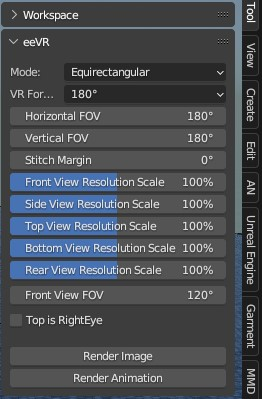
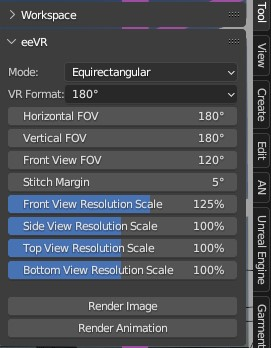
update docu improve ui cosme

diff --git a/__init__.py b/__init__.py
@@ -5,7 +5,7 @@
 import os
 import time
 from datetime import datetime
-from math import radians
+from math import radians, degrees
 
 if "bpy" in locals():
     import importlib
@@ -174,22 +174,23 @@ class ToolPanel(Panel):
         else:
             col.prop(props, 'HFOV360')
         col.prop(props, 'VFOV')
+        if props.get_hfov() <= radians(270):
+            col.prop(props, 'frontFOV')
+            max_fov = props.get_max_fov()
+            if props.frontFOV > max_fov:
+                col.label(icon='ERROR', text=f"clips to {degrees(max_fov):3.0f}°")
         col.prop(props, 'stitchMargin')
         col.prop(props, 'frontViewResolution')
         col.prop(props, 'sideViewResolution')
         col.prop(props, 'topViewResolution')
         col.prop(props, 'bottomViewResolution')
-        col.prop(props, 'rearViewResolution')
-        if props.fovModeEnum == '180':
-            col = layout.column()
-            col.prop(props, 'frontFOV')
-        if context.scene.render.use_multiview and props.GetHFOV() > radians(180):
-            col = layout.column()
+        if props.get_hfov() > radians(270):
+            col.prop(props, 'rearViewResolution')
+        if context.scene.render.use_multiview and props.is_top_bottom(context):
+            col.prop(props, 'isTopRightEye')
+        if context.scene.render.use_multiview and props.get_hfov() > radians(180):
             col.prop(props, 'appliesParallaxForSideAndBack')
             col.label(icon='ERROR', text="eeVR cannot support stereo over 180° fov correctly.")
-        if context.scene.render.use_multiview and (context.scene.render.image_settings.stereo_3d_format.display_mode == 'TOPBOTTOM') if props.cancel else props.trueTopBottom:
-            col = layout.column()
-            col.prop(props, 'isTopRightEye')
         layout.separator()
         col = layout.column()
         col.operator(RenderImage.bl_idname, text="Render Image")
@@ -381,14 +382,23 @@ class Properties(bpy.types.PropertyGroup):
             return radians(360)
         return src
 
-    def GetHFOV(self) -> float:
+    def get_hfov(self) -> float:
         return self.snap_angle(self.HFOV180 if self.fovModeEnum == '180' else self.HFOV360)
 
-    def GetVFOV(self) -> float:
+    def get_vfov(self) -> float:
         return self.snap_angle(self.VFOV)
 
-    def GetFrontFOV(self) -> float:
-        return self.snap_angle(self.frontFOV) if self.fovModeEnum == '180' else radians(90)
+    def get_max_fov(self) -> float:
+        return max(self.get_hfov(), self.get_vfov())
+
+    def get_front_fov(self) -> float:
+        return min(self.snap_angle(self.frontFOV), self.get_max_fov()) if self.get_hfov() <= radians(270) else radians(90)
+
+    def is_top_bottom(self, context: Context) -> bool:
+        if self.cancel:
+            return context.scene.render.image_settings.stereo_3d_format.display_mode =='TOPBOTTOM'
+        else:
+            return self.trueTopBottom
 
     @classmethod
     def register(cls):

diff --git a/renderer.py b/renderer.py
@@ -293,9 +293,9 @@ class Renderer:
         self.is_stereo = context.scene.render.use_multiview
         self.is_animation = is_animation
         is_dome = props.renderModeEnum == 'DOME'
-        h_fov = props.GetHFOV()
-        v_fov = props.GetVFOV()
-        front_fov = props.GetFrontFOV()
+        h_fov = props.get_hfov()
+        v_fov = props.get_vfov()
+        front_fov = props.get_front_fov()
         ext_front_view = front_fov > pi/2
         render_fov = pi if props.fovModeEnum == '180' else 2 * pi if props.fovModeEnum == '360' else max(h_fov, v_fov)
         self.no_back_image = h_fov <= 3*pi/2

diff --git a/README.md b/README.md
@@ -54,7 +54,7 @@ If the front view FOV is greater than the horizontal FOV, the side view renderin
 the top and bottom views' rendering is omitted. If both conditions are met, the front view rendering occurs only once.
 In this case, the FOV is clipped to whichever is larger between the horizontal and vertical FOVs.
 
-**NOTE** : This feature is active only in VR180 mode.
+**NOTE** : This feature is active only when horizontal FOV is less than 270 degrees.
 
 ### Applies Parallax For Side And Rear
 
